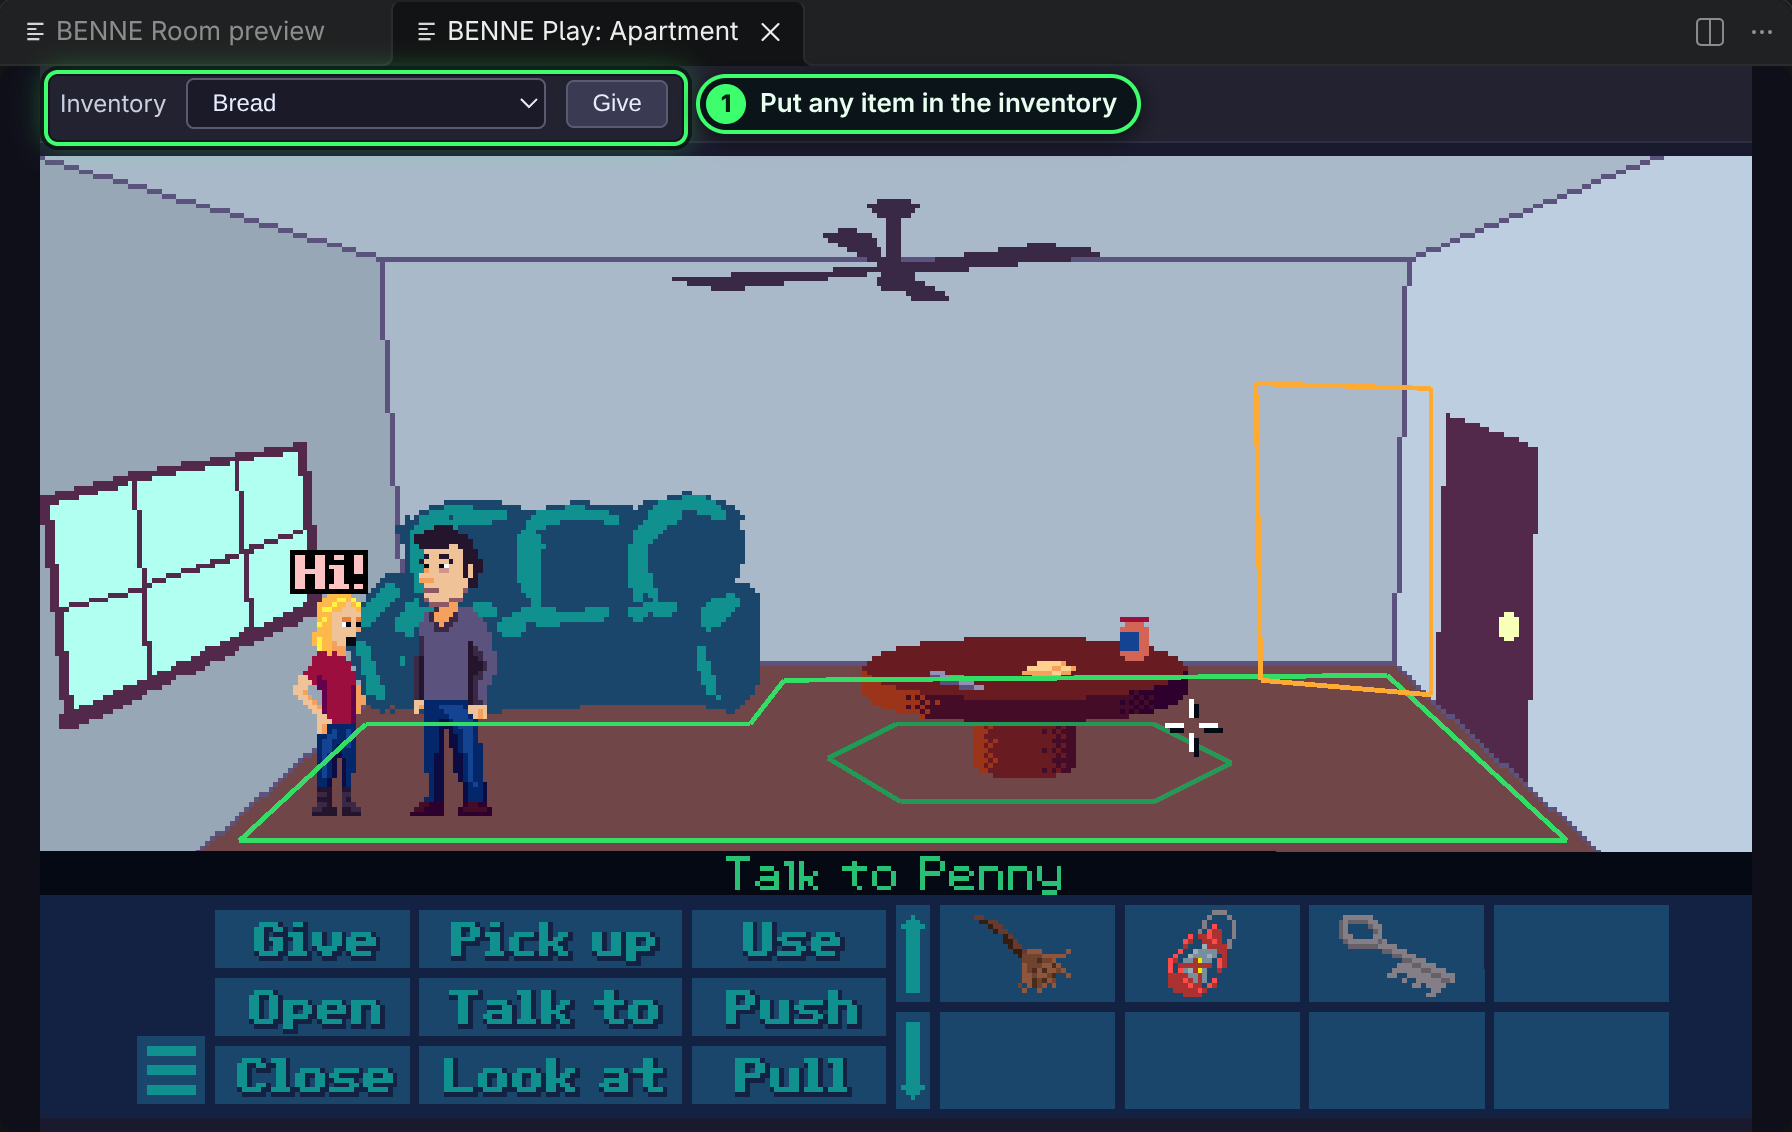
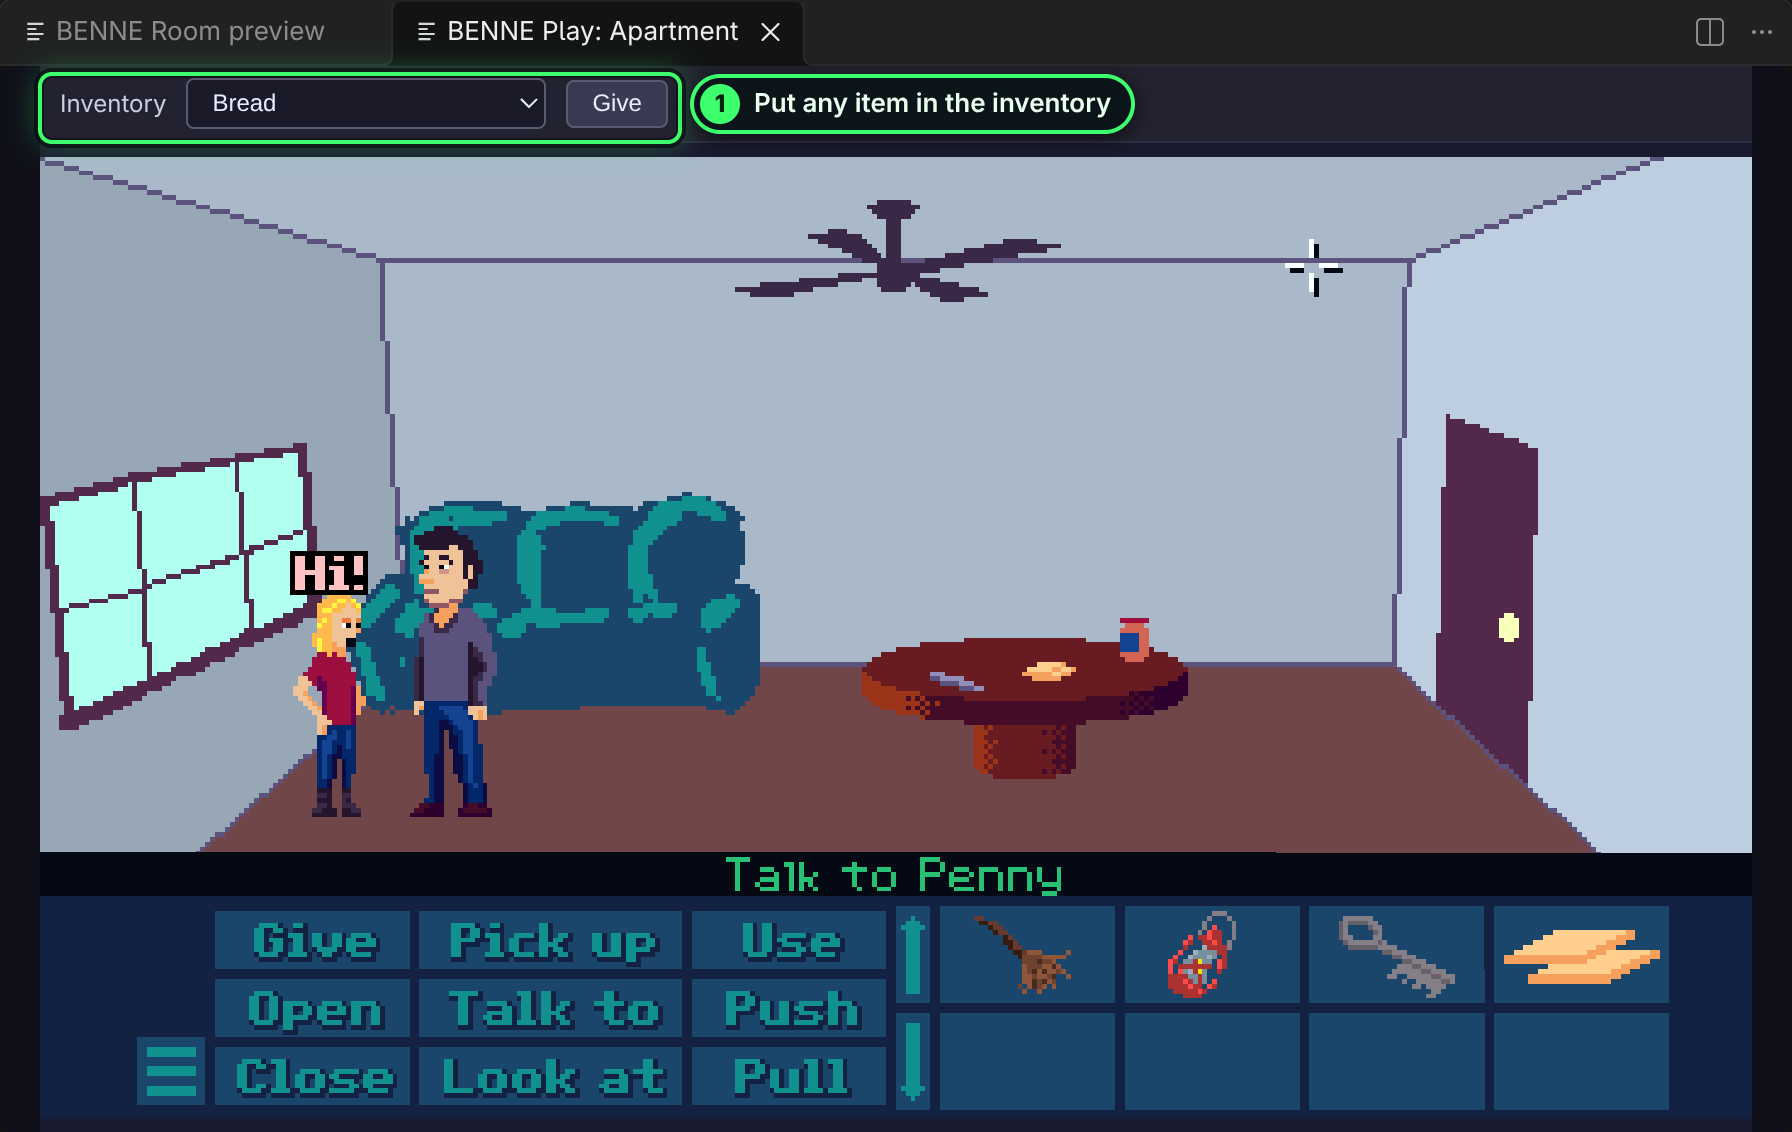
Add annotated screenshots to the Creating content guides
Screenshots of the editor running the 9-verb template for each Creating
content page: props, walkable areas, hotspots, regions, placed
characters, room size and Play From in Creating a room; the character
preview and animations; an inventory item and the inventory panel; a
dialog's options in the Inspector and in the game; a GUI and one of its
controls. Tall ones sit in a column beside their section's text.

Retake the BENNE Play screenshot in the BENNE Editor guide without the
template's debug outlines.

diff --git a/website/guide/creating-a-room.md b/website/guide/creating-a-room.md
@@ -70,6 +70,8 @@ Right-click the room in the BENNE tree and choose **Import Props from Aseprite T
 
 Then pick the tags, and say whether the new props should be clickable. You can import again later, after adding tags to the sheet; tags that are already props are marked.
 
+<DocShot src="/images/benne-editor/context.webp" alt="The right-click menu on a room: Play from here, then Add Hole, Hotspot, Play From method, Point, Prop, Region, Spawned Character and Walkable Area, Import Props from Aseprite Tags, Open Assets Folder, and Delete." :width="368" :height="342" caption="Right-clicking a room. The steps below all start here." />
+
 **Add Prop** adds one prop at a time instead: you give it the Aseprite tag, an id and whether it is clickable.
 
 Select a prop in the tree to edit it in the Inspector and the preview. Its settings:
@@ -99,6 +101,8 @@ When you select a clickable prop, the preview shows:
 - an **amber** handle: *Look at*, what the player faces;
 - a **red and green** gizmo that moves the whole prop.
 
+<DocShot src="/images/guides/room-prop.webp" alt="The apartment couch selected in the room preview: a magenta collider around it, cyan Walk to and amber Look at handles in front of it, the red and green gizmo at its top-left corner, and the toolbar with Save to JSON and a hint line." :width="896" :height="540" caption="The couch selected. Its magenta collider, cyan walk-to point and amber look-at point are ready to drag." legend="The gizmo moves the whole prop.|The hint line says what you can do with the selection.|Nothing is written to the room until you click Save to JSON." />
+
 To draw a new collider, click three times to place the first points. Double-click an edge to add a point, drag points to reshape it, and press **Delete** to remove the selected point. When you're happy, click **Save to JSON** in the preview's toolbar. Nothing is written to the room until you save.
 
 A prop that isn't clickable shows only its **baseline**, a cyan line you drag up or down.
@@ -115,11 +119,15 @@ Trace the floor where characters' feet can go, not the whole visible floor: feet
 
 **Holes** cut obstacles out of a walkable area. Right-click a walkable area and choose **Add Hole**, then shape it the same way. The street outside the apartment has two holes, around the fountain and the rock, and the apartment one around its table.
 
+<DocShot src="/images/guides/room-walkable.webp" alt="The apartment’s walk-1 walkable area and its hole-1 in the BENNE tree, and in the preview the walkable area outlined in green around the floor with the hole around the table selected for editing." :width="1252" :height="540" caption="The apartment’s floor (green, with Outlines on) and the hole around its table, selected for editing." />
+
 A room can have several walkable areas, and scripts can switch them on and off: `walkables.walk1.active = false`.
 
 ## 5. Add hotspots
 
 A **hotspot** is a clickable shape with no art of its own, for things painted into the background: a window, a sign, a crack in the wall, the edge of the screen that leads somewhere else. Right-click the room, choose **Add Hotspot** and give it an id. In the preview, a hotspot is an **orange** polygon with the same *Walk to* and *Look at* handles as a prop, edited the same way.
+
+<DocShot src="/images/guides/room-hotspot.webp" alt="The apartment window hotspot selected: an orange polygon over the painted window with Walk to and Look at handles, and the Inspector showing its Active checkbox, zIndex, baseline, description and default verb." :width="1193" :height="540" caption="The apartment’s window hotspot, and its settings in the Inspector." />
 
 Hotspots have a `description`, `defaultVerb`, `zIndex`, `baseline` and `activeCursorOverride` like props, and an `active` switch instead of `visible`: `windowHotspot.active = false` stops the window being clickable.
 
@@ -144,7 +152,11 @@ room.onEnter(() => {
 
 ## 7. Add regions
 
+<DocShot src="/images/guides/room-region.webp" alt="The apartment’s darkness region selected in the room preview: a green four-point polygon on the floor around Hank, by the door." :width="896" :height="540" caption="The apartment’s `darkness` region, which darkens anyone standing by the door." />
+
 A **region** is a polygon on the floor that does something when characters stand in it. Right-click the room, choose **Add Region**, and shape it in the preview (a **green** polygon). One region can do any of these:
+
+<DocShot src="/images/guides/room-region-inspector.webp" alt="The darkness region in the Inspector: Active and Walkable checkboxes, Scale, Scale top, Scale bottom and Scale walk speed, Tint, Character tint set to black and Tint alpha 0.75, and onEnter and onExit script chips." :width="270" :height="404" legend="Perspective scaling.|Tint: black at 0.75 for `darkness`.|⚡ jumps to a handler, + adds one.">
 
 **Run script when someone walks in or out.** The Inspector's **onEnter** and **onExit** chips add the handlers to the room script:
 
@@ -162,6 +174,8 @@ Regions fire for every character, so check who it was when it matters: `regions.
 
 **Block walking** with `"walkable": false`, which treats the region as a hole in the floor.
 
+</DocShot>
+
 A region can be switched off from a script: `regions.darkness.active = false`.
 
 ## 8. Put characters in the room
@@ -174,11 +188,15 @@ The player character only appears in a room that places them. Add your player to
 
 A character placed in a room is a plain name in its script (`penny`). You can hide one until they're needed (`"visible": false` in the room, then `penny.show()`).
 
+<DocShot src="/images/guides/room-character.webp" alt="Penny selected in the apartment’s room preview with a red and green gizmo at her feet, and the Inspector showing her placement: X 60, Y 135, Visible, Clickable, zIndex 42, Facing R and Animation Idle." :width="1193" :height="540" caption="Penny as placed in the apartment. Each room she is in has its own copy of these settings." />
+
 ## 9. Size and scrolling
 
 A room larger than the game's resolution scrolls, and the camera follows the player. The street outside is 600 pixels wide in a 352-pixel-wide game.
 
 Select the room and set its **Room size** in the Inspector, or click **Edit in Preview** and drag the cyan handles. **Scroll bounds** limit where the camera can go inside the room (orange handles), which is useful when the edges of the art are only there to look good. Characters can still walk beyond the scroll bounds. Press **F** in the preview to fit the room back into view.
+
+<DocShot src="/images/guides/room-size.webp" alt="The street outside in the room preview after Edit in Preview: the 600-pixel-wide room outlined in cyan with yellow handles on its right and bottom edges, and the Inspector’s Room size and Scroll bounds fields." :width="1193" :height="540" caption="Resizing the street outside, which is 600 pixels wide in a 352-pixel-wide game." />
 
 For a sense of depth in a scrolling room, give distant props a `parallaxDepth` below 1 (see [props](#3-add-the-props)).
 
@@ -242,6 +260,8 @@ The preview's top bar has **Play** and **Play from** on the left:
 - **Play** starts the whole game in BENNE Play, from the starting room.
 - **Play from** starts the game in this room, optionally from a prepared state.
 
+<DocShot src="/images/guides/room-hooks.webp" alt="The top of the apartment’s Inspector: chips for room.onLoaded, room.onEnter, room.onEnterAfterFade and onUpdate, then playFrom(’gotKey’), playFrom(’doorUnlocked’) and + playFrom." :width="292" :height="300" legend="The room’s hooks.|Its Play From setups, and + playFrom to add one.">
+
 A **Play From** setup gets a room into the state you want to test, such as "the player already has the key", without playing up to it. Click **+ playFrom** in the room's Inspector (or right-click the room and choose **Add Play From method**), name it, and fill in the setup in the room script:
 
 ```ts
@@ -255,6 +275,8 @@ playFrom('doorUnlocked', () => {
 ```
 
 Each one appears in the **Play from** menu. On the right of the top bar, the **Outlines** checkbox shows the walkable areas, regions and colliders while you play, and **GUIs** and **Characters** hide those layers in the preview. These only change the preview, never the room.
+
+</DocShot>
 
 ## Checklist
 

diff --git a/website/guide/creating-a-character.md b/website/guide/creating-a-character.md
@@ -44,10 +44,14 @@ Any other tag is an animation you play from scripts, such as a `Wave` or a `Shru
 
 ## 3. Import the animations
 
+<DocShot src="/images/guides/character-animations.webp" alt="Hank’s animations in the Inspector: an Import Animations from Aseprite Tags button, then IdleD, IdleL, IdleU, TalkD, TalkL, TalkU and WalkD, and WalkL expanded to show loop ticked and frameDuration 80." :width="276" :height="710" legend="Import more tags at any time.|Each clip’s loop and frame duration.">
+
 Right-click the character in the tree and choose **Import Animations from Aseprite Tags**. Pick the tags; each one gets an entry in the character's `animations`, set to loop. Then adjust them in the Inspector:
 
 - **Loop** should be on for `Idle`, `Walk` and `Talk`, and off for one-off animations such as a wave, which play once and return to idle.
 - **Frame duration** sets milliseconds per frame for the whole tag, instead of the timings drawn in Aseprite. Hank walks left at 80 ms per frame and up and down at 60.
+
+</DocShot>
 
 ## 4. Set the feet, walk-to point, talk point and collider
 
@@ -61,6 +65,8 @@ Selecting a character opens the **character preview**. Pick any animation from t
 | **Collider** (magenta) | The clickable shape. Click three times to start one, double-click an edge to add a point, and press **Delete** to remove a selected point. Without a collider, a clickable character is clicked anywhere on their frame. |
 
 Click **Save to JSON** to keep the changes. The mouse wheel zooms, a middle-button drag pans, and **F** fits the character back in view.
+
+<DocShot src="/images/guides/character-preview.webp" alt="Hank in the character preview, zoomed in: a magenta collider around him with yellow points, Talk above his head, Feet between his shoes and Walk to beside him. The Inspector shows his name, walkSpeed 88, clickable, movable, speech colour, and walkToPoint, talkPoint and feet fields." :width="1193" :height="620" caption="Hank in the character preview." legend="Pick an animation to play.|The collider (magenta).|The handles you drag, as numbers: `walkToPoint`, `talkPoint` and `feet`.|His `speechColor`." />
 
 ## 5. Fill in the details
 

diff --git a/website/guide/creating-a-gui.md b/website/guide/creating-a-gui.md
@@ -68,6 +68,8 @@ Every control has `x`, `y`, `visible` and `zIndex` (the order within the GUI, hi
 
 Select a control in the tree to edit it in the Inspector and drag it in the **GUI preview**, which renders the GUI exactly as the game will. Positions are in game pixels, from the top-left of the screen.
 
+<DocShot src="/images/guides/gui-control.webp" alt="The game menu’s Resume button selected: a red and green gizmo on it in the GUI preview, and the Inspector showing its text, font and fontSize, text colours, Position and size, Grid placement and an On Click button." :width="1193" :height="882" caption="The game menu’s Resume button." legend="Drag the gizmo to move the control.|Its label and bitmap font.|Its position and size, in game pixels.|Its cell, when it sits in a grid.|Add its `onClick` handler, or jump to it." />
+
 For tidy menus, add a **Grid** and place controls in its cells: give a control a `gridPlacement` naming the grid, a row, a column and an alignment (such as `center` or `center-left`). The template game menu is a one-column grid with a title and five buttons.
 
 ### GUI settings
@@ -81,6 +83,8 @@ Select the GUI itself to set:
 | `zIndex` | Order among GUIs: higher is in front. The template menus are 100 and above. |
 | `x`, `y` | Where the whole GUI starts. A bar can start off screen (`"y": -34`) and slide in from a script. |
 | `fixedControls` | Ids of controls that stay put when a script moves the whole GUI. |
+
+<DocShot src="/images/guides/gui.webp" alt="The game menu GUI selected: its controls listed in the BENNE tree, the menu drawn in the GUI preview at the game’s 352 by 198 resolution, the Inspector with visible off, modal on and zIndex 100 and chips for gui.onBuilt, gui.onShow and gui.onHide, and game-menu.gui.ts underneath." :width="1548" :height="724" caption="The template’s game menu." legend="Its controls, in the tree.|The GUI preview, which draws it as the game does.|A menu: hidden at first, modal, and in front of the HUD.|Its own handlers.|A control’s handler in the GUI’s script." />
 
 ## Text and fonts
 

diff --git a/website/guide/creating-a-dialog.md b/website/guide/creating-a-dialog.md
@@ -43,6 +43,8 @@ Select the dialog in the tree. The Inspector lists its options, and **Add option
 
 Drag the **⋮⋮** handle to reorder options; the list on screen follows the same order. Changes are written to the JSON when you leave a field.
 
+<DocShot src="/images/guides/dialog.webp" alt="The ChatWithPenny dialog selected: its script open with handlers for greeting, door and bye, and the Inspector listing the three options with door expanded to show its id, text, enabled, used and say line fields and a Script button." :width="1193" :height="820" caption="Penny’s dialog, with the `door` option open in the Inspector." legend="Add an option.|What the player sees and says.|Whether it is in the list from the start.|Whether the player says it before the handler runs.|Add the handler, or jump to it.|The handler for `door`." />
+
 Penny's dialog has three options:
 
 ```json
@@ -221,6 +223,8 @@ options.thatsAll.onChoose(() => {
 ## How it looks
 
 The list of choices is drawn by a GUI, `src/game/guis/dialog/dialog.gui.json`, so its font, colours, background and position are yours to change (see [Creating a GUI](./creating-a-gui)). When the list is taller than the space for it, it scrolls; `dialog.choiceOptionsViewportHeightPx` in `game-config.json` sets that height.
+
+<DocShot src="/images/guides/dialog-play.webp" alt="Penny’s dialog in BENNE Play: Hank and Penny stand by the couch, and below the room the three options are listed: How’s it goin?, The door is locked. How do I get out?, and Ok, bye!" :width="872" :height="546" caption="Penny’s options in the 9-verb template." />
 
 A dialog can use a different choice GUI, for a character whose conversations look different, by naming it in the Inspector's **GUI id** field (`guiId` in the JSON).
 

diff --git a/website/guide/creating-an-inventory-item.md b/website/guide/creating-an-inventory-item.md
@@ -63,6 +63,8 @@ Select the item in the tree to edit it in the Inspector, with its icon shown in 
 
 The Inspector's [verb chips](./verbs#verbs-in-the-editor) list your game's verbs for the item: **+** adds a handler to its script, **⚡** jumps to one.
 
+<DocShot src="/images/guides/inventory-item.webp" alt="The PB item selected: the inventory preview showing the peanut butter jar icon, PB.inventory.ts underneath with its onOpen and onUseItem handlers, and the Inspector with its name, stackable, shared sheet, default frame tag, description, verb chips with open handled, and its PB and PB-open animations." :width="1193" :height="864" caption="The peanut butter jar." legend="Its icon, as an inventory panel shows it.|Its script, `PB.inventory.ts`.|⚡ open: the jar has an `onOpen` handler.|Its two looks, `PB` and `PB-open`." />
+
 ## 4. Give it to the player
 
 Items reach the inventory from scripts:
@@ -85,6 +87,8 @@ To start a new game with items already in the inventory, list their ids in `game
 ```
 
 The player sees their items in an **inventory panel**, a GUI control that fills itself with whatever the player is carrying. Both templates include one: a panel beside the verb bar in 9-verb, and a bar that slides down from the top of the screen in 2-click. See [Creating a GUI](./creating-a-gui#controls).
+
+<DocShot src="/images/guides/inventory-play.webp" alt="The 9-verb template running in BENNE Play: the verb buttons and, beside them, the inventory panel holding a broom, a lantern, a key and bread. Above the game, BENNE Play’s Inventory menu and Give button." :width="872" :height="546" caption="The 9-verb inventory panel in BENNE Play, with the template’s starting items and some bread from the **Give** button." />
 
 ## 5. Make it do things
 

diff --git a/website/guide/benne-editor.md b/website/guide/benne-editor.md
@@ -152,7 +152,7 @@ Tick **Mute** beside **Play** to playtest without sound. Right-clicking a room i
 
 While BENNE Play is open, its bar has an **Inventory** menu and a **Give** button that put any item straight into the player's inventory, for testing a puzzle without fetching its pieces. While it is open, BENNE Play rebuilds when you save a script or content file and restarts from where you launched it, so you can change a line and try it again straight away.
 
-<DocShot src="/images/benne-editor/play.webp" alt="BENNE Play running the 9-verb template in a VS Code tab: Penny says Hi! to Hank in the apartment, above the nine-verb bar and inventory. An Inventory menu and Give button sit above the game." :width="896" :height="566" caption="BENNE Play, mid-conversation. The walkable area and region outlines are on because the 9-verb template turns on its `debug` settings." />
+<DocShot src="/images/benne-editor/play.webp" alt="BENNE Play running the 9-verb template in a VS Code tab: Penny says Hi! to Hank in the apartment, above the nine-verb bar and inventory. An Inventory menu and Give button sit above the game." :width="896" :height="566" caption="BENNE Play, mid-conversation." />
 
 ## Rebuilding preview bundles
 
